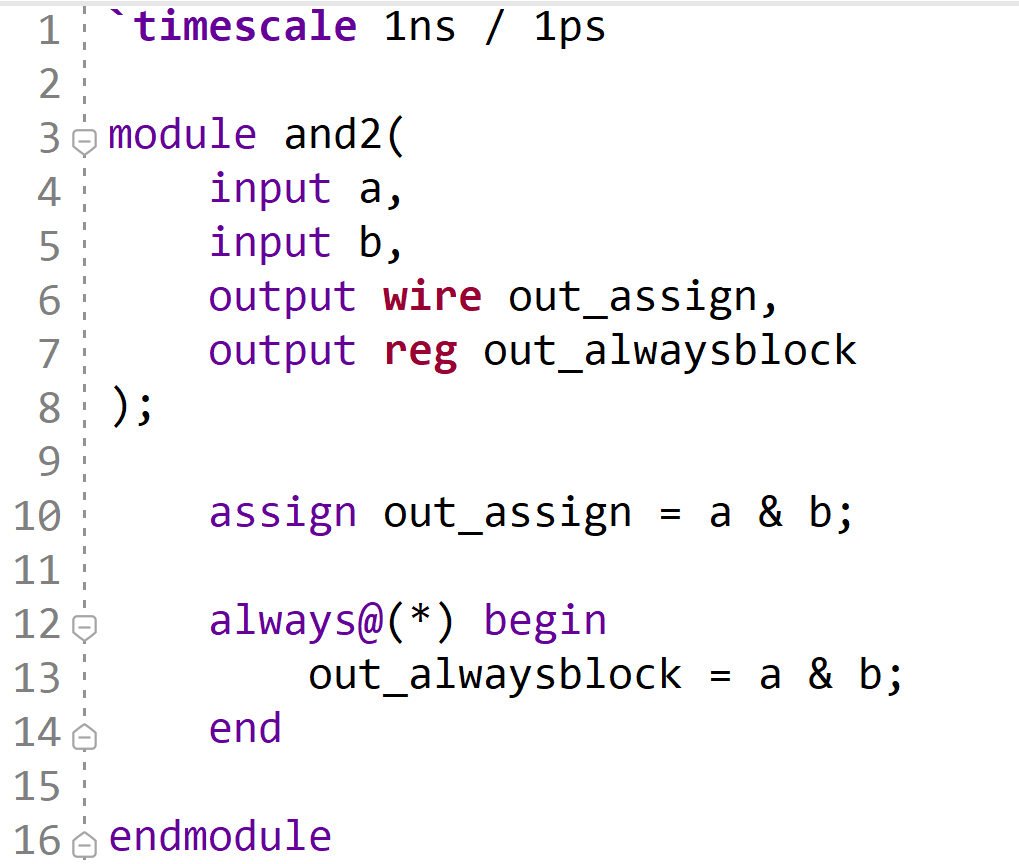
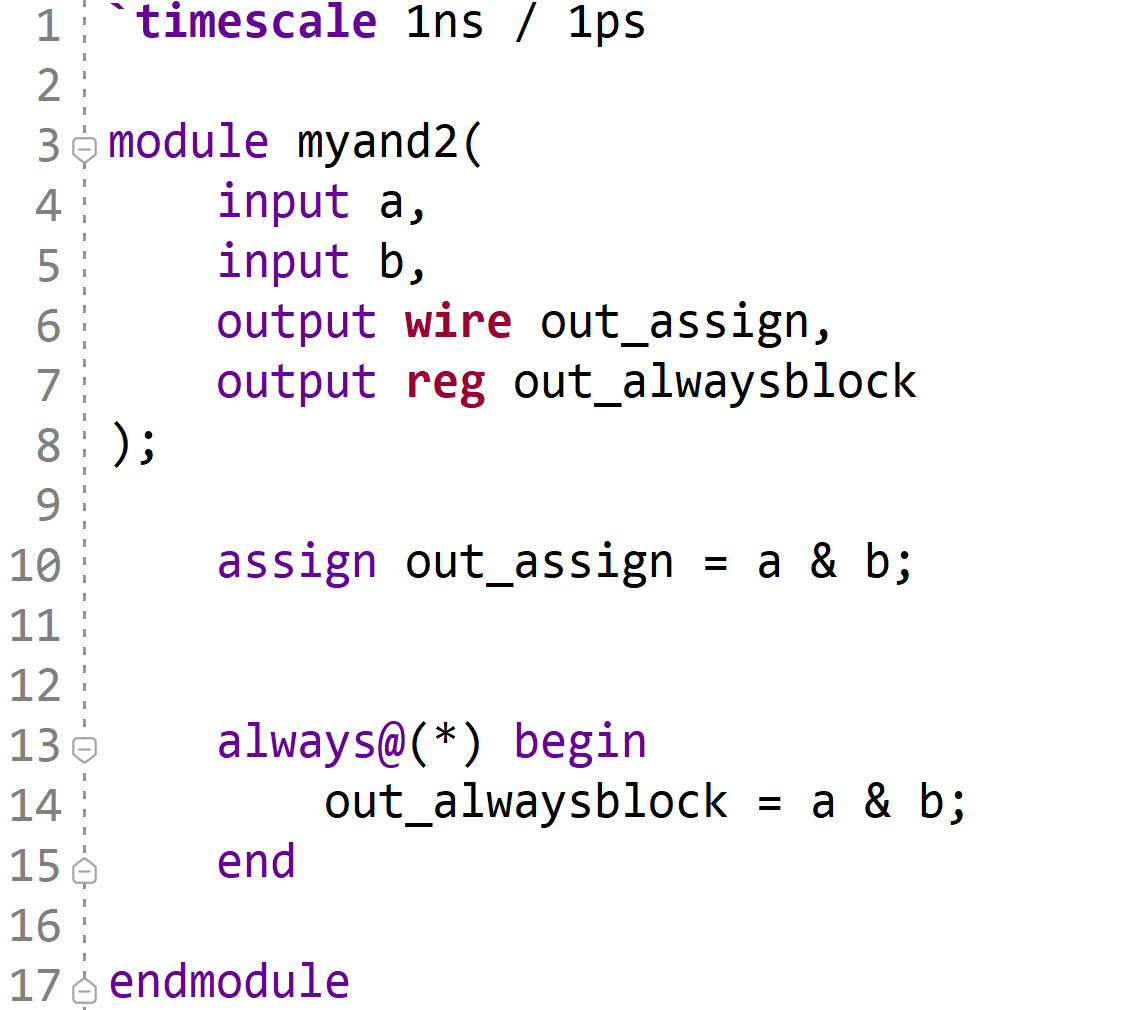
jyang

diff --git a/docs/digisys-week11-dark-soundon.html b/docs/digisys-week11-dark-soundon.html
@@ -667,7 +667,7 @@ blockquote {
 }
 	
 </style><link rel="stylesheet" href="dark-theme.css"><link rel="stylesheet"  target="_blank" href="https://cdnjs.cloudflare.com/ajax/libs/highlight.js/11.5.0/styles/github-dark-dimmed.min.css"><script src="https://cdnjs.cloudflare.com/ajax/libs/highlight.js/11.5.0/highlight.min.js"></script></head><body><article id="d64e0b0c-1d61-49e2-be4e-c8033fd6192e" class="page sans"><header><img class="page-cover-image" src="Verilog%20%E8%A1%8C%E7%82%BA%E5%B1%A4%E6%AC%A1%E6%A8%A1%E7%B5%84%E8%A8%AD%E8%A8%88%201%20d64e0b0c1d6149e2be4ec8033fd6192e/9.png" style="object-position:center 50%"/><div class="page-header-icon page-header-icon-with-cover"><img class="icon" src="Verilog%20%E8%A1%8C%E7%82%BA%E5%B1%A4%E6%AC%A1%E6%A8%A1%E7%B5%84%E8%A8%AD%E8%A8%88%201%20d64e0b0c1d6149e2be4ec8033fd6192e/yang01.png"/></div><h1 class="page-title">Verilog 行為層次模組設計 1</h1><link rel="stylesheet" href="dark-theme.css"><link rel="stylesheet"  target="_blank" href="https://cdnjs.cloudflare.com/ajax/libs/highlight.js/11.5.0/styles/github-dark-dimmed.min.css"><script src="https://cdnjs.cloudflare.com/ajax/libs/highlight.js/11.5.0/highlight.min.js"></script></header><div class="page-body"><h1 id="02b6bd54-f85b-4575-8a4e-781952f24f90" class="">Behavioral Modeling in Verilog 1</h1><figure class="block-color-gray_background callout" style="white-space:pre-wrap;display:flex" id="50c5e742-cc79-49e1-be5d-dbc0b2919995"><div style="font-size:1.5em"><span class="icon">💻</span></div><div style="width:100%">Behavioral modeling in Verilog is a way of describing the functionality and behavior of digital systems using a high-level language. Verilog is one of the most popular languages for designing and simulating digital circuits, such as microprocessors, memory units, and logic gates.<p id="596f3071-48e9-4dcf-84bf-84596695da64" class="">In behavioral modeling, you can use constructs such as variables, assignments, operators, expressions, conditional statements, loops, and functions to specify how the system should work. You do not need to worry about the details of the hardware implementation, such as the number of wires, gates, or registers. You can focus on the logic and algorithm of the system.</p><p id="e18992db-21f7-4dac-9eb1-4cd4546f1449" class="">Behavioral modeling in Verilog is useful for high-level design and verification of digital systems. It allows you to express complex functionality and behavior in a concise and readable way. It also enables you to test and debug your system using simulation tools before implementing it in hardware.</p></div></figure><h2 id="79e9ce9a-93fb-4e73-bddc-46b79a784a3b" class="block-color-yellow_background">This Week&#x27;s Circuit Design Adventure</h2><figure class="block-color-gray_background callout" style="white-space:pre-wrap;display:flex" id="4410be31-3da7-4939-9779-55c0763922b6"><div style="font-size:1.5em"><img class="icon" src="Verilog%20%E8%A1%8C%E7%82%BA%E5%B1%A4%E6%AC%A1%E6%A8%A1%E7%B5%84%E8%A8%AD%E8%A8%88%201%20d64e0b0c1d6149e2be4ec8033fd6192e/800x800.png"/></div><div style="width:100%">In the next few weeks, we will learn the fundamentals of procedure-based Verilog designs. We will be using three simple HDLBits exercises in class to show how to use always statements to specify combinational logics, which is similar to the continuous assignments we learned before midterm. Additionally, we will briefly explore the use of always blocks for clock-based designs, and the use of if statements to create mux-like behavior inside the procedure blocks. By the end of these exercises, you will have a better understanding of how to use Verilog to design digital circuits. Don&#x27;t be afraid to ask questions and seek help if needed.</div></figure><h2 id="7026f4ef-e119-424a-ad26-cbb3f7d1a592" class="block-color-yellow_background">參考資料 (References)</h2><figure id="125d2e5c-b114-4c4d-9429-1aa0a5f06c57"><a  target="_blank" href="https://hdlbits.01xz.net/wiki/Main_Page" class="bookmark source"><div class="bookmark-info"><div class="bookmark-text"><div class="bookmark-title">HDLBits</div><div class="bookmark-description">HDLBits is a collection of small circuit design exercises for practicing digital hardware design using Verilog Hardware Description Language (HDL). Earlier problems follow a tutorial style, while later problems will increasingly challenge your circuit design skills. Each problem requires you to design a small circuit in Verilog.</div></div><div class="bookmark-href">https://hdlbits.01xz.net/wiki/Main_Page</div></div><img src="https://hdlbits.01xz.net/mw/images/0/06/Logo_v.png" class="bookmark-image"/></a></figure><figure id="19d4f4e7-8eab-424c-9181-c29b8c979d5e"><a  target="_blank" href="https://technobyte.org/behavioral-modeling-verilog/" class="bookmark source"><div class="bookmark-info"><div class="bookmark-text"><div class="bookmark-title"></div></div><div class="bookmark-href">https://technobyte.org/behavioral-modeling-verilog/</div></div></a></figure><h2 id="49f5a126-3db1-444e-9ccb-9922f875d2dd" class="block-color-yellow_background">課程內容 (Course Content)</h2><h3 id="036f2c38-ca05-400d-9e00-f05101fb9170" class="block-color-yellow">Procedural Verilog Blocks</h3><figure class="block-color-gray_background callout" style="white-space:pre-wrap;display:flex" id="62ed9d85-daac-4ea3-9cfa-5c80e8b8f44d"><div style="font-size:1.5em"><span class="icon">💻</span></div><div style="width:100%">When you make hardware, there are two types of always blocks that you can use. The first one is called &quot;combinational.&quot; This block is like an &quot;assign&quot; statement, which means you can write it in a different way. The second one is called &quot;clocked.&quot; This block uses a clock signal to work. When you write code inside a procedural block, it&#x27;s different from code that is outside. Procedural blocks have more options for writing code, like &quot;if-then&quot; and &quot;case.&quot; But they can also cause errors that are hard to understand.
-<ul id="bc144a0a-b2df-4738-8a17-d0a1b05f4618" class="bulleted-list"><li style="list-style-type:disc">Combinational:<p id="bc05c449-0d33-4fb9-984e-512a120b4935" class=""><code>always @(*)</code></p></li></ul><ul id="d5023466-81c7-4404-8137-912e16684f03" class="bulleted-list"><li style="list-style-type:disc">Clocked:<p id="8af685fb-9e38-499e-bcc5-5da4d25e8439" class=""><code>always @(posedge clk)</code></p></li></ul></div></figure><h3 id="c9bb94da-2891-4251-90ca-3ebde24ad246" class="block-color-gray_background">【課堂練習 1】<a  target="_blank" href="https://hdlbits.01xz.net/wiki/Alwaysblock1">Alwaysblock1 - HDLBits (01xz.net)</a></h3><figure class="block-color-gray_background callout" style="white-space:pre-wrap;display:flex" id="6c334021-5b1a-429a-abf9-a70543396ff4"><div style="font-size:1.5em"><img class="icon" src="Verilog%20%E8%A1%8C%E7%82%BA%E5%B1%A4%E6%AC%A1%E6%A8%A1%E7%B5%84%E8%A8%AD%E8%A8%88%201%20d64e0b0c1d6149e2be4ec8033fd6192e/yang02.png"/></div><div style="width:100%">There are two ways to create an AND gate using Verilog code. The first way is by using an <code>assign</code> statement. This statement assigns the output to the result of the AND operation on the inputs. The second way is by using a combinational <code>always</code> block. This block sets the output whenever any of the inputs change. To practice making an AND gate using both methods, you can use two tools: HDLBits and Xilinx Vivado. HDLBits is a website where you can write and test Verilog code in your browser. Xilinx Vivado is a software that enables you to design and simulate logic circuits on your computer. When working on the Vivado project, remember to rename the AND module to <code>and2</code>.</div></figure><h3 id="26ba4f01-0edf-43ff-ae4d-958b70f6a547" class="">Example Solution (HDLBits)</h3><figure id="b3910b1e-db20-45c2-831b-f973663a829d" class="image"><a href="Verilog%20%E8%A1%8C%E7%82%BA%E5%B1%A4%E6%AC%A1%E6%A8%A1%E7%B5%84%E8%A8%AD%E8%A8%88%201%20d64e0b0c1d6149e2be4ec8033fd6192e/Untitled.png"><img style="width:432px" src="Verilog%20%E8%A1%8C%E7%82%BA%E5%B1%A4%E6%AC%A1%E6%A8%A1%E7%B5%84%E8%A8%AD%E8%A8%88%201%20d64e0b0c1d6149e2be4ec8033fd6192e/Untitled.png"/></a></figure><h3 id="7341b471-4c10-4ad6-b2d0-49b246b92e2c" class="">Verilog Simulation Waveform</h3><figure id="ee3ad2b3-56d9-446d-b3a4-b6e70051e83f" class="image"><a href="Verilog%20%E8%A1%8C%E7%82%BA%E5%B1%A4%E6%AC%A1%E6%A8%A1%E7%B5%84%E8%A8%AD%E8%A8%88%201%20d64e0b0c1d6149e2be4ec8033fd6192e/Untitled%201.png"><img style="width:2116px" src="Verilog%20%E8%A1%8C%E7%82%BA%E5%B1%A4%E6%AC%A1%E6%A8%A1%E7%B5%84%E8%A8%AD%E8%A8%88%201%20d64e0b0c1d6149e2be4ec8033fd6192e/Untitled%201.png"/></a></figure><h3 id="93499a12-30f6-4260-a2cf-e252c89510dc" class="">Example Solution (Xilinx Vivado)</h3><figure id="2ae396d8-95bd-47fd-afda-9ac3ef065b3b" class="image"><a href="Verilog%20%E8%A1%8C%E7%82%BA%E5%B1%A4%E6%AC%A1%E6%A8%A1%E7%B5%84%E8%A8%AD%E8%A8%88%201%20d64e0b0c1d6149e2be4ec8033fd6192e/Untitled%202.png"><img style="width:528px" src="Verilog%20%E8%A1%8C%E7%82%BA%E5%B1%A4%E6%AC%A1%E6%A8%A1%E7%B5%84%E8%A8%AD%E8%A8%88%201%20d64e0b0c1d6149e2be4ec8033fd6192e/Untitled%202.png"/></a></figure><h3 id="adc4c6ed-d4d4-46d8-96f4-60138e1fbf04" class="">RTL Schematic (Xilinx Vivado)</h3><figure id="c2073c63-de91-40e3-a51b-0a553cb48691" class="image"><a href="Verilog%20%E8%A1%8C%E7%82%BA%E5%B1%A4%E6%AC%A1%E6%A8%A1%E7%B5%84%E8%A8%AD%E8%A8%88%201%20d64e0b0c1d6149e2be4ec8033fd6192e/Untitled%203.png"><img style="width:2787px" src="Verilog%20%E8%A1%8C%E7%82%BA%E5%B1%A4%E6%AC%A1%E6%A8%A1%E7%B5%84%E8%A8%AD%E8%A8%88%201%20d64e0b0c1d6149e2be4ec8033fd6192e/Untitled%203.png"/></a></figure><h3 id="428c0c8d-327a-4242-9b41-6a9196e55538" class="">Example Testbench (Xilinx Vivado)</h3><pre id="55b594e3-9461-4c9a-a2fb-a0f83f0de2e4" class="code"><code>`timescale 1ns / 1ps
+<ul id="bc144a0a-b2df-4738-8a17-d0a1b05f4618" class="bulleted-list"><li style="list-style-type:disc">Combinational:<p id="bc05c449-0d33-4fb9-984e-512a120b4935" class=""><code>always @(*)</code></p></li></ul><ul id="d5023466-81c7-4404-8137-912e16684f03" class="bulleted-list"><li style="list-style-type:disc">Clocked:<p id="8af685fb-9e38-499e-bcc5-5da4d25e8439" class=""><code>always @(posedge clk)</code></p></li></ul></div></figure><h3 id="c9bb94da-2891-4251-90ca-3ebde24ad246" class="block-color-gray_background">【課堂練習 1】<a  target="_blank" href="https://hdlbits.01xz.net/wiki/Alwaysblock1">Alwaysblock1 - HDLBits (01xz.net)</a></h3><figure class="block-color-gray_background callout" style="white-space:pre-wrap;display:flex" id="6c334021-5b1a-429a-abf9-a70543396ff4"><div style="font-size:1.5em"><img class="icon" src="Verilog%20%E8%A1%8C%E7%82%BA%E5%B1%A4%E6%AC%A1%E6%A8%A1%E7%B5%84%E8%A8%AD%E8%A8%88%201%20d64e0b0c1d6149e2be4ec8033fd6192e/yang02.png"/></div><div style="width:100%">There are two ways to create an AND gate using Verilog code. The first way is by using an <code>assign</code> statement. This statement assigns the output to the result of the AND operation on the inputs. The second way is by using a combinational <code>always</code> block. This block sets the output whenever any of the inputs change. To practice making an AND gate using both methods, you can use two tools: HDLBits and Xilinx Vivado. HDLBits is a website where you can write and test Verilog code in your browser. Xilinx Vivado is a software that enables you to design and simulate logic circuits on your computer. When working on the Vivado project, remember to rename the AND module to <code>and2</code>.</div></figure><h3 id="26ba4f01-0edf-43ff-ae4d-958b70f6a547" class="">Example Solution (HDLBits)</h3><figure id="b3910b1e-db20-45c2-831b-f973663a829d" class="image"><a href="Verilog%20%E8%A1%8C%E7%82%BA%E5%B1%A4%E6%AC%A1%E6%A8%A1%E7%B5%84%E8%A8%AD%E8%A8%88%201%20d64e0b0c1d6149e2be4ec8033fd6192e/Untitled.png"><img style="width:432px" src="Verilog%20%E8%A1%8C%E7%82%BA%E5%B1%A4%E6%AC%A1%E6%A8%A1%E7%B5%84%E8%A8%AD%E8%A8%88%201%20d64e0b0c1d6149e2be4ec8033fd6192e/Untitled.png"/></a></figure><h3 id="7341b471-4c10-4ad6-b2d0-49b246b92e2c" class="">Verilog Simulation Waveform</h3><figure id="ee3ad2b3-56d9-446d-b3a4-b6e70051e83f" class="image"><a href="Verilog%20%E8%A1%8C%E7%82%BA%E5%B1%A4%E6%AC%A1%E6%A8%A1%E7%B5%84%E8%A8%AD%E8%A8%88%201%20d64e0b0c1d6149e2be4ec8033fd6192e/Untitled%201.png"><img style="width:2116px" src="Verilog%20%E8%A1%8C%E7%82%BA%E5%B1%A4%E6%AC%A1%E6%A8%A1%E7%B5%84%E8%A8%AD%E8%A8%88%201%20d64e0b0c1d6149e2be4ec8033fd6192e/Untitled%201.png"/></a></figure><h3 id="93499a12-30f6-4260-a2cf-e252c89510dc" class="">Example Solution (Xilinx Vivado)</h3><figure id="f1a18faa-9ae6-4415-9ee3-fb3a3718c9f0" class="image"><a href="Verilog%20%E8%A1%8C%E7%82%BA%E5%B1%A4%E6%AC%A1%E6%A8%A1%E7%B5%84%E8%A8%AD%E8%A8%88%201%20d64e0b0c1d6149e2be4ec8033fd6192e/Untitled%202.png"><img style="width:528px" src="Verilog%20%E8%A1%8C%E7%82%BA%E5%B1%A4%E6%AC%A1%E6%A8%A1%E7%B5%84%E8%A8%AD%E8%A8%88%201%20d64e0b0c1d6149e2be4ec8033fd6192e/Untitled%202.png"/></a></figure><h3 id="adc4c6ed-d4d4-46d8-96f4-60138e1fbf04" class="">RTL Schematic (Xilinx Vivado)</h3><figure id="c2073c63-de91-40e3-a51b-0a553cb48691" class="image"><a href="Verilog%20%E8%A1%8C%E7%82%BA%E5%B1%A4%E6%AC%A1%E6%A8%A1%E7%B5%84%E8%A8%AD%E8%A8%88%201%20d64e0b0c1d6149e2be4ec8033fd6192e/Untitled%203.png"><img style="width:2787px" src="Verilog%20%E8%A1%8C%E7%82%BA%E5%B1%A4%E6%AC%A1%E6%A8%A1%E7%B5%84%E8%A8%AD%E8%A8%88%201%20d64e0b0c1d6149e2be4ec8033fd6192e/Untitled%203.png"/></a></figure><h3 id="428c0c8d-327a-4242-9b41-6a9196e55538" class="">Example Testbench (Xilinx Vivado)</h3><pre id="55b594e3-9461-4c9a-a2fb-a0f83f0de2e4" class="code"><code>`timescale 1ns / 1ps
 
 module and2_tb;
     // Declare inputs and outputs
@@ -677,7 +677,7 @@ module and2_tb;
     reg fail;
 
     // Instantiate the and2 module
-    and2 dut (
+    myand2 dut (
         .a(a),
         .b(b),
         .out_assign(out_assign),
@@ -695,9 +695,9 @@ module and2_tb;
             fail = 0;
 
             // Evaluate outputs
-            #5;
+            #10;
             fail = (out_assign !== (a &amp; b) || out_alwaysblock !== (a &amp; b));
-            #5;
+            #10;
         end
 
         $finish;
